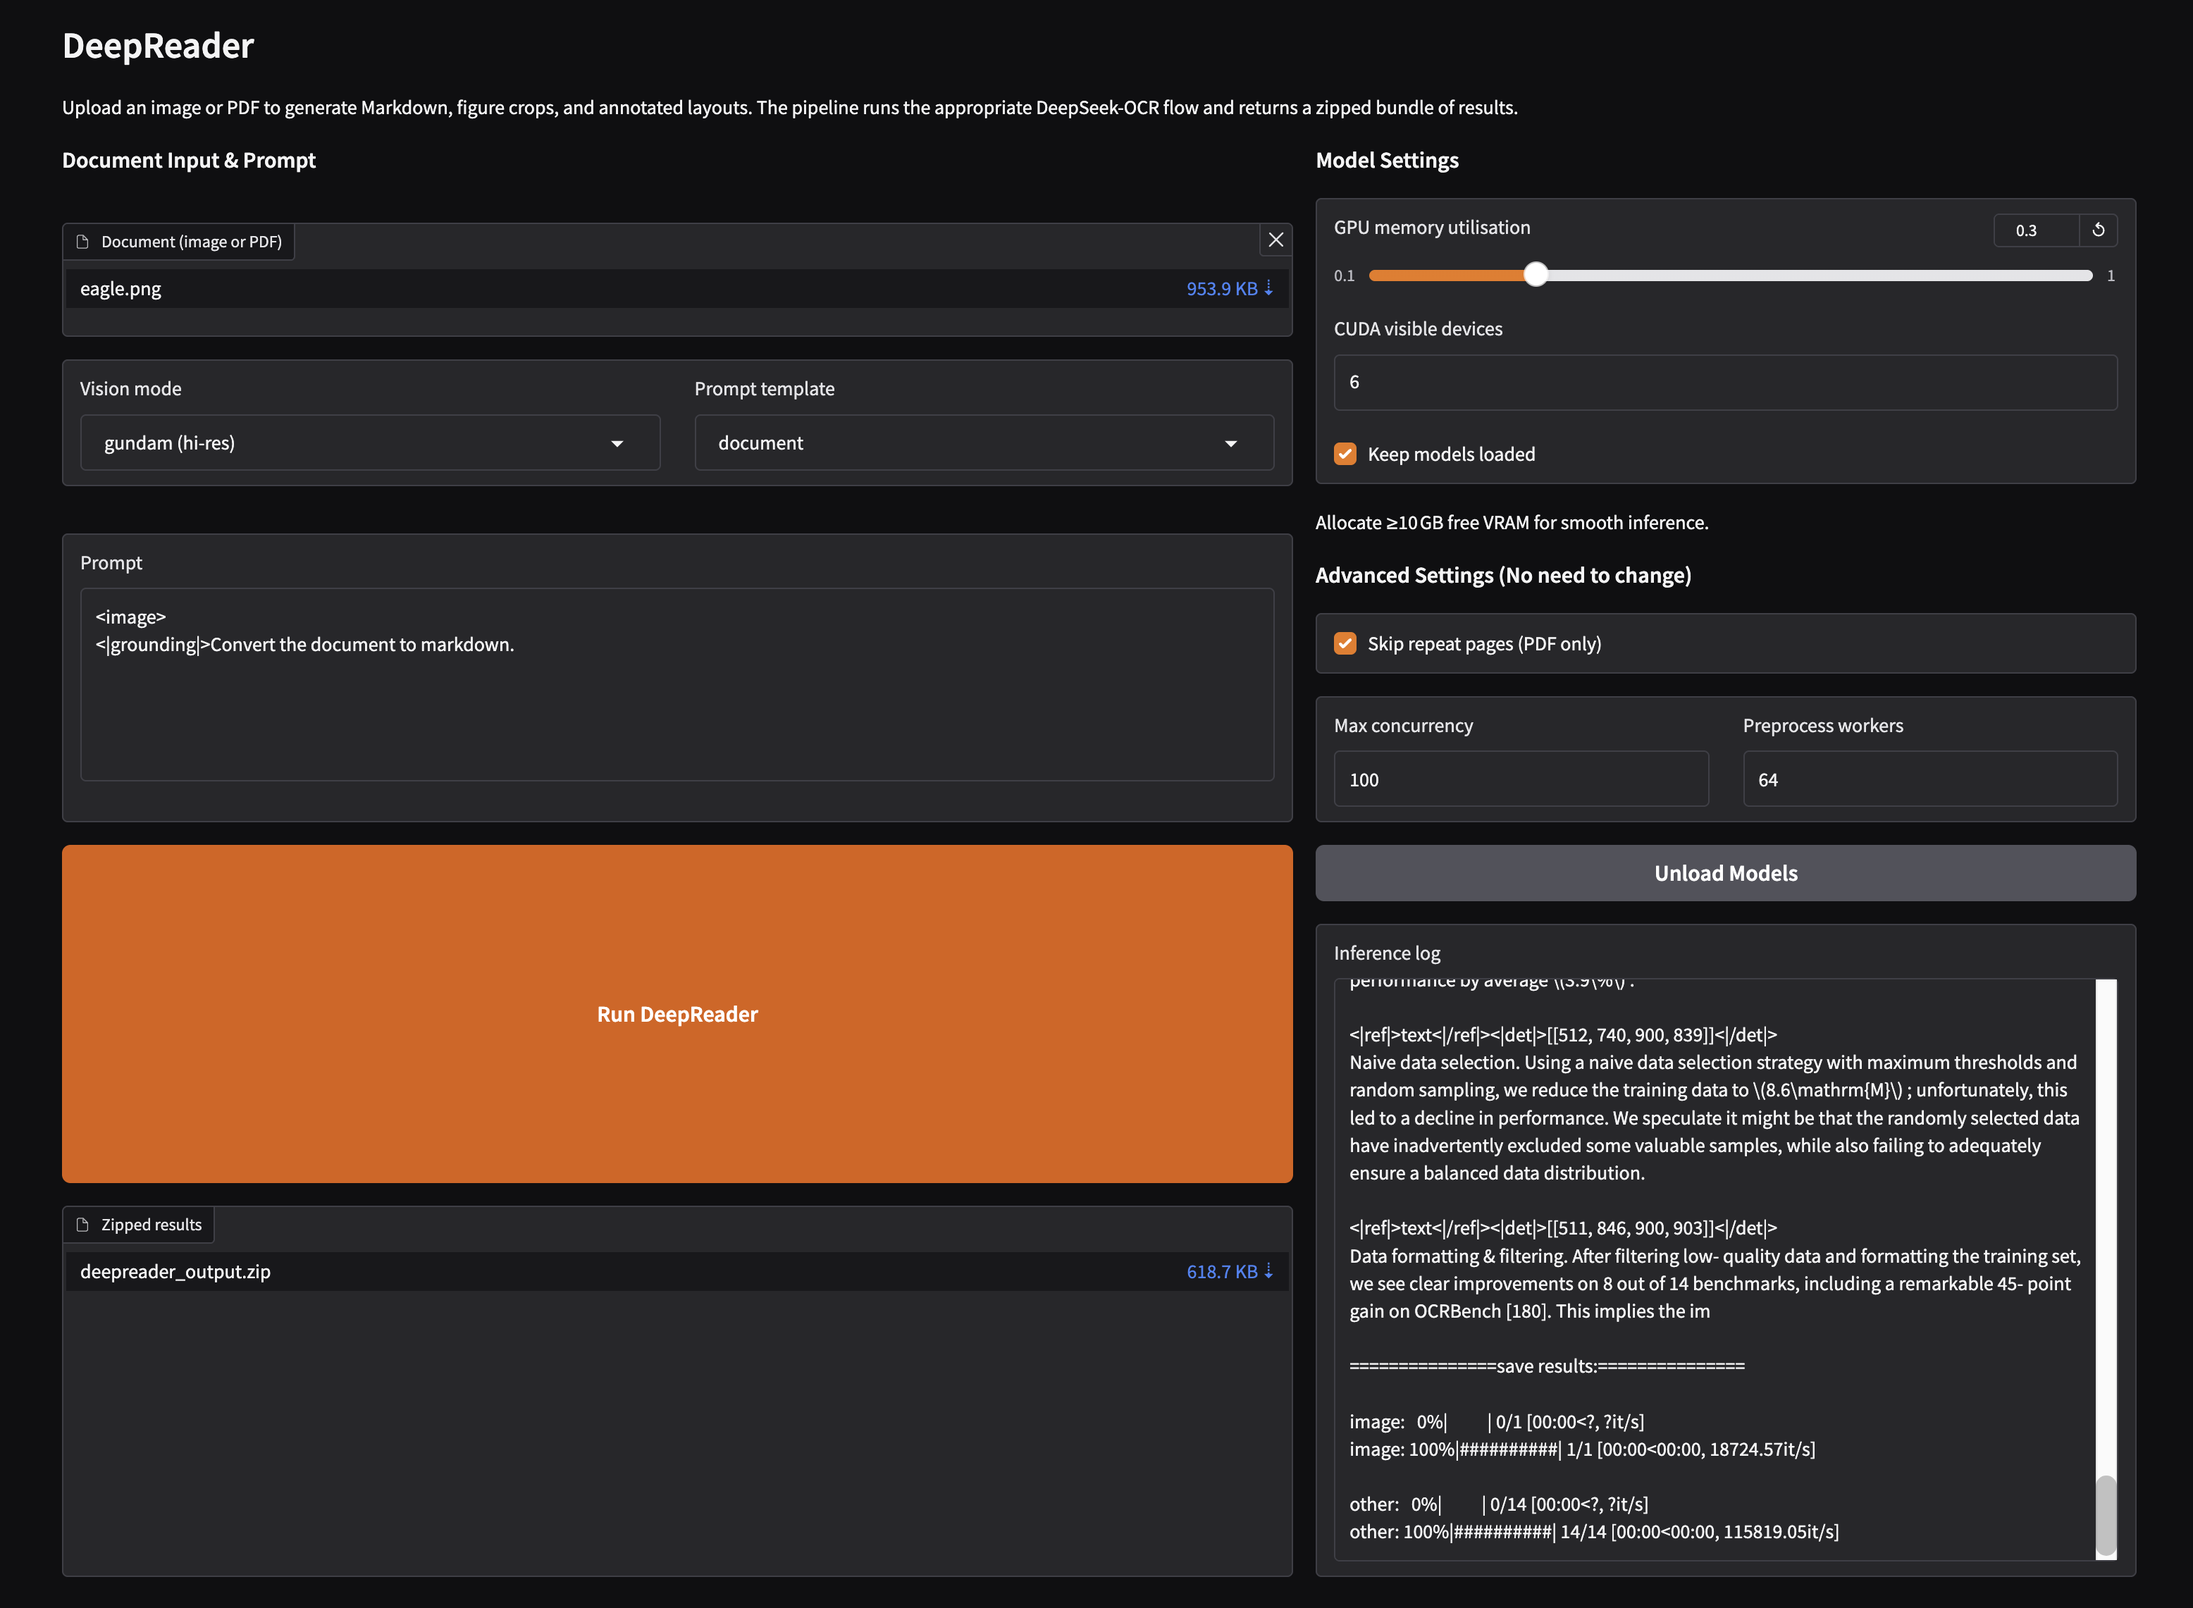
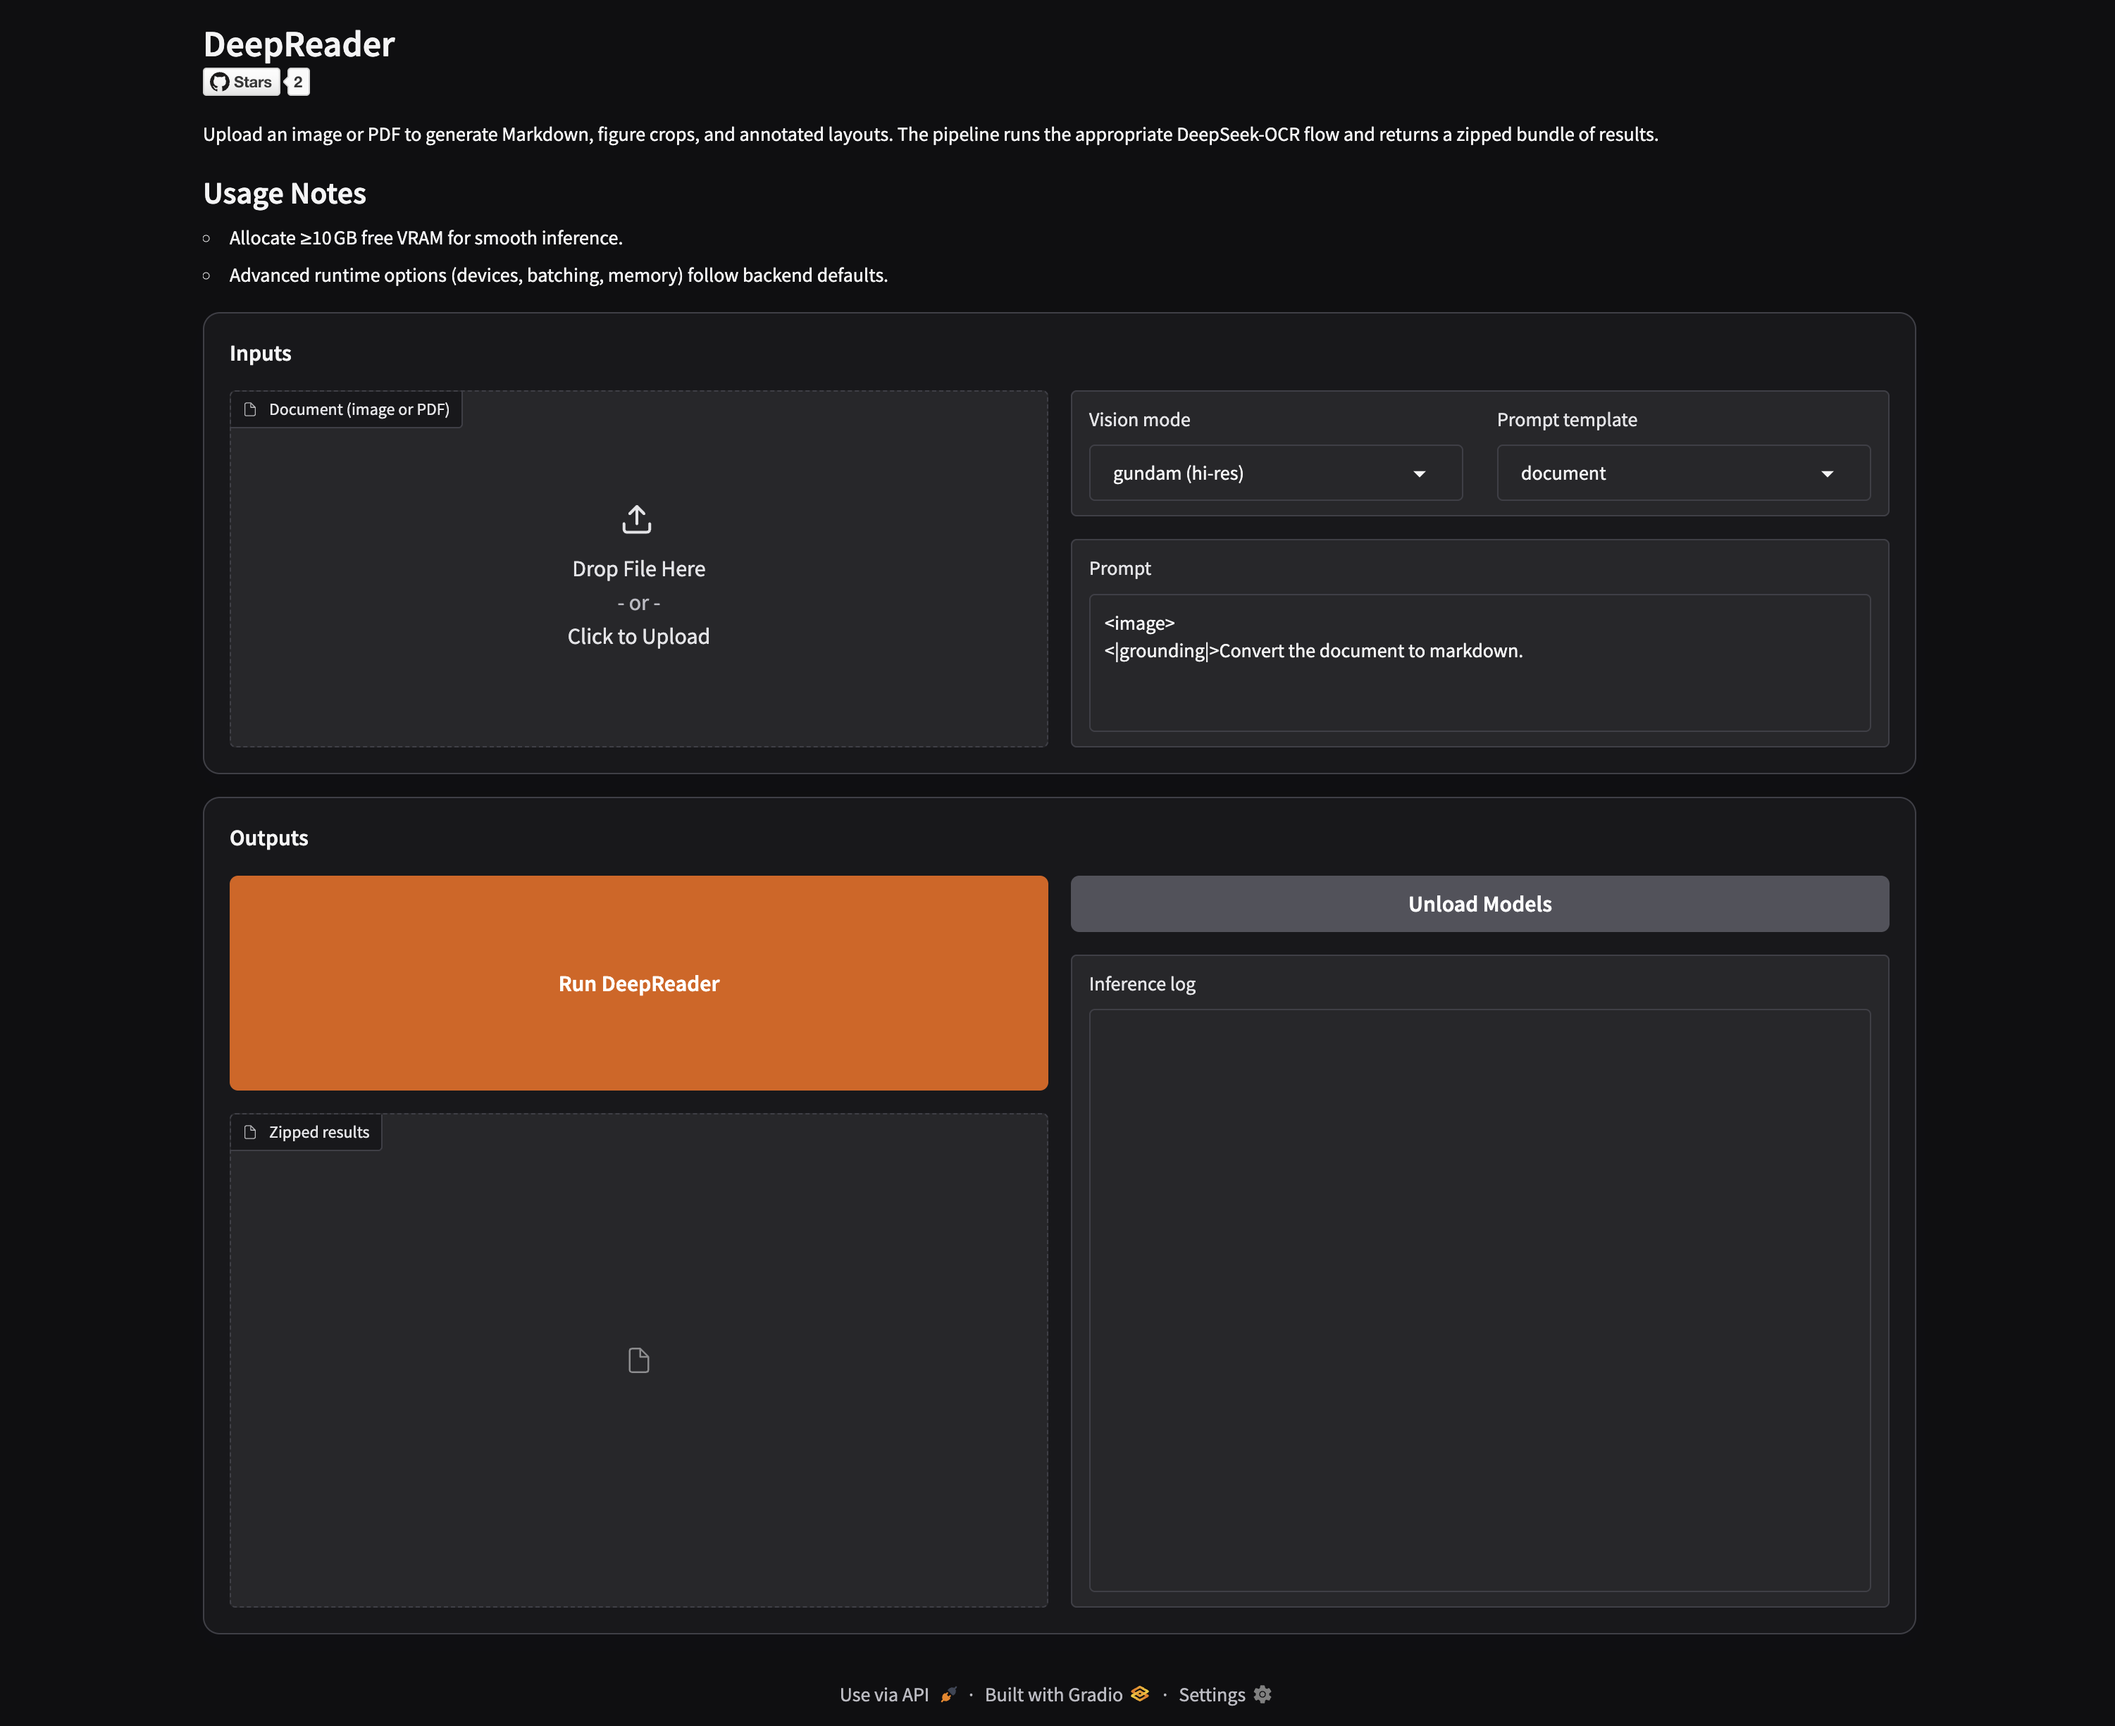
docs: update interface info

diff --git a/run_deepreader_gradio.py b/run_deepreader_gradio.py
@@ -202,7 +202,7 @@ def build_interface() -> gr.Blocks:
     with gr.Blocks(title="DeepReader Gradio Interface", css=section_css) as demo:
         gr.Markdown(
             """
-            # DeepReader
+            # DeepReader [![GitHub stars](https://img.shields.io/github/stars/zzyking/DeepReader?style=social)](https://github.com/zzyking/DeepReader)
             Upload an image or PDF to generate Markdown, figure crops, and annotated layouts.
             The pipeline runs the appropriate DeepSeek-OCR flow and returns a zipped bundle of results.
             ## Usage Notes
